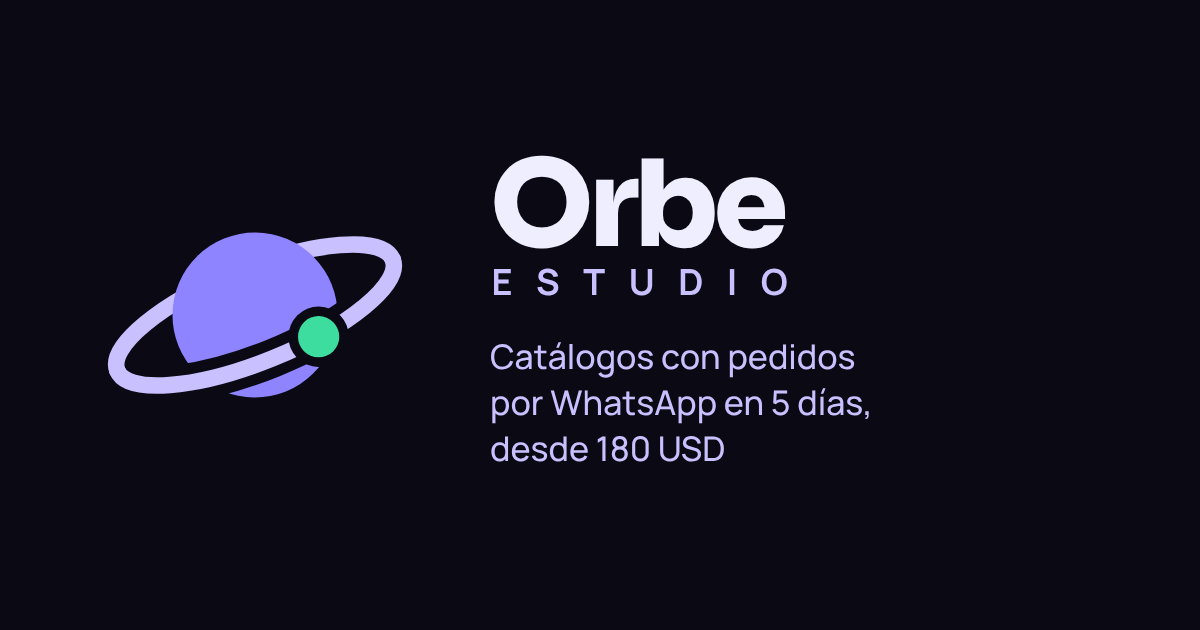
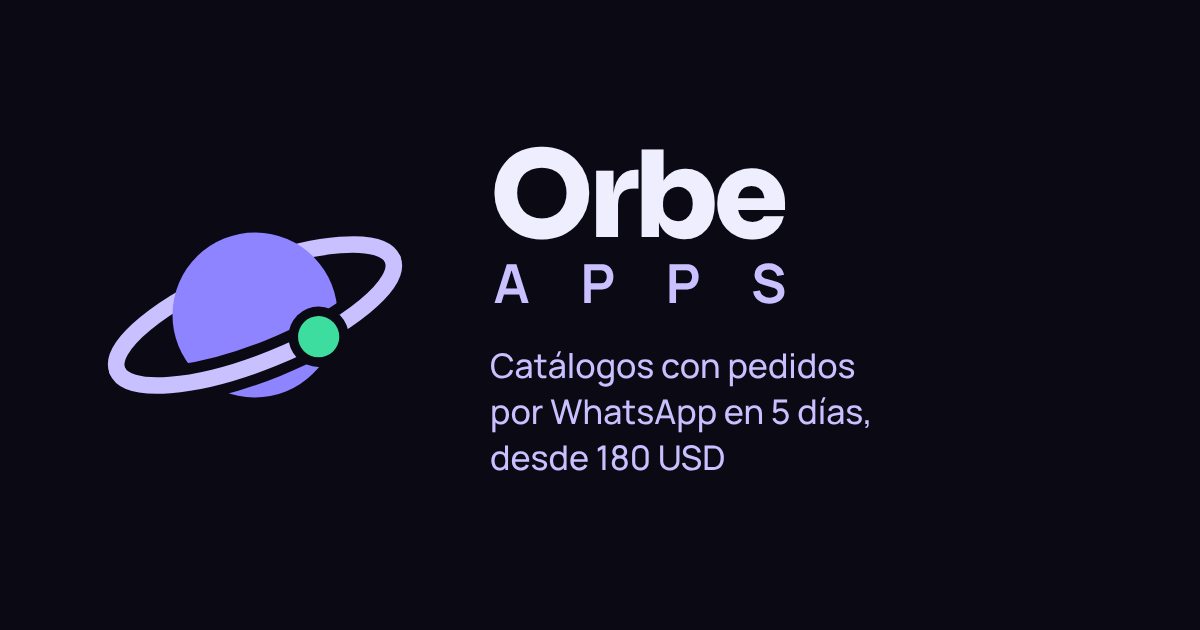
Página de ventas con el nombre Orbe Apps y la imagen de vista previa actualizada
Claude-Session: https://claude.ai/code/session_01UJKThWLEJMYk1EX3qtWT1M

Changed region(s): [[0.4008, 0.5429, 0.74, 0.754], [0.4008, 0.2111, 0.6783, 0.4825]]

diff --git a/servicios/index.html b/servicios/index.html
@@ -125,7 +125,7 @@ footer { padding-block: 40px 60px; color: var(--muted); font-size: .9rem; }
 <body>
 <div class="wrap">
   <header class="top">
-    <div class="marca"><img src="logo.svg" alt=""> Orbe Estudio</div>
+    <div class="marca"><img src="logo.svg" alt=""> Orbe Apps</div>
     <a class="btn btn-ghost" href="#cotizar">Cotizar gratis</a>
   </header>
 
@@ -265,7 +265,7 @@ footer { padding-block: 40px 60px; color: var(--muted); font-size: .9rem; }
   </div>
 </section>
 
-<footer><div class="wrap">Orbe Estudio · Páginas, catálogos y apps para negocios de Latinoamérica.</div></footer>
+<footer><div class="wrap">Orbe Apps · Páginas, catálogos y apps para negocios de Latinoamérica.</div></footer>
 
 <script>
 const WHATSAPP = ""; // tu número con código de país, solo dígitos, ej. "584121234567"
